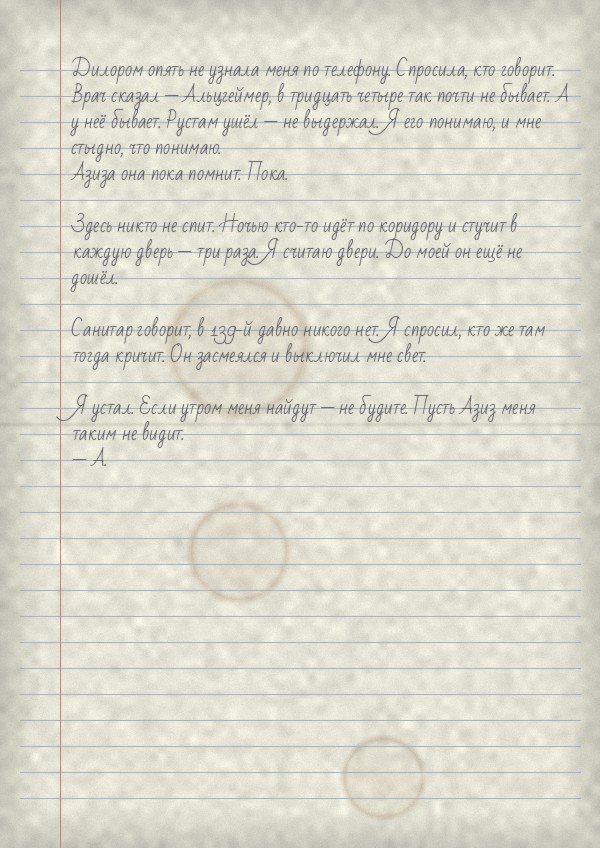
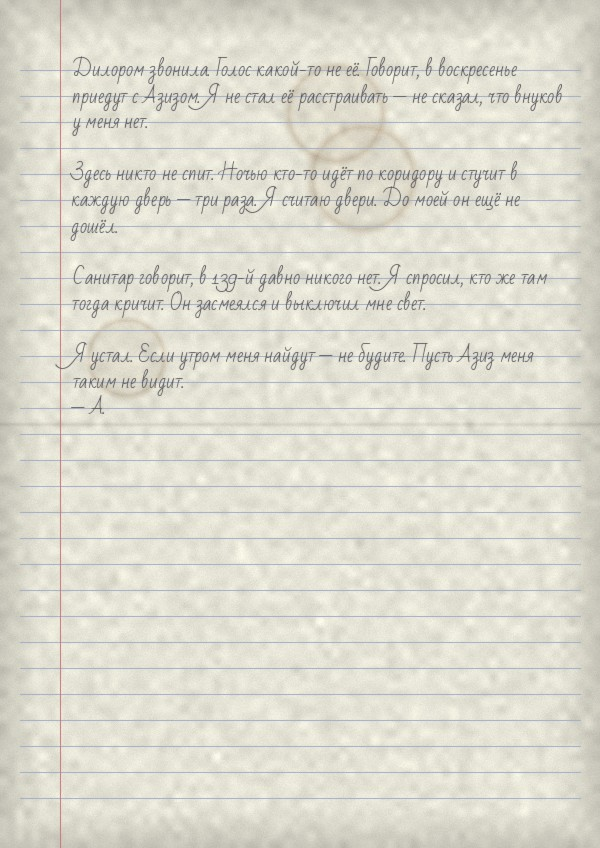
Story: no Alzheimer; three silent dream contradictions in grandpa's papers
The medical extract is now a telegram from Dilorom (dated 1980, 'Aziz is already running about'),
the referral is dated 1975 and lists grandson Aziz in a wheelchair, and grandpa's pencil note says he
has no grandchildren. Aziz no longer comments on things that do not add up (empty floor, the floor
coming back, mom vanishing).

Claude-Session: https://claude.ai/code/session_01RAJMRmio3YpQbQiqMDM3tq

diff --git a/tools/godot_assets/make_note_textures.py b/tools/godot_assets/make_note_textures.py
@@ -1,5 +1,5 @@
 #!/usr/bin/env python3
-"""Текстуры бумаг в палате деда (story/notes/): выписка на машинке в картонной папке, бланк направления
+"""Текстуры бумаг в палате деда (story/notes/): телеграмма в картонной папке, бланк направления
 и записка карандашом на тетрадном листе. На бумаге — тот же текст, что в игре (story/director.gd, NOTES):
 его можно прочитать, если подъехать близко. Бумага старая: желтизна, пятна, сгиб.
 Запуск: python3 make_note_textures.py <папка the_last_shake/story/notes>"""
@@ -15,22 +15,20 @@ rng = np.random.default_rng(1975)
 FONTS = "/usr/share/fonts/truetype/dejavu/"
 W, H = 600, 848            # А4
 
-MOM = ("Больная: Дилором Анваровна К., 34 года.\n"
-       "Диагноз: болезнь Альцгеймера, ранняя форма.\n\n"
-       "Анамнез: в 1972 г. муж (Рустам) ушёл из семьи. После этого — бессонница, тяжёлый стресс. "
-       "Через год появились провалы в памяти: забывает слова и дорогу домой, путает годы, не узнаёт соседей. "
-       "Со слов отца, однажды не узнала его самого.\n\n"
-       "Когда её поправляют — вспышки гнева, агрессия.\n\n"
-       "В таком возрасте болезнь встречается редко. Прогноз неблагоприятный.\n"
-       "Рекомендовано: наблюдение невропатолога. Одну не оставлять.")
-FORM = [("Ф. И. О.", "Каримов Анвар Каримович"), ("Возраст", "74 года"),
+# Телеграмма от Дилором деду. Во сне всё сходится и не сходится одновременно — Азиз этого не замечает:
+# в телеграмме 1980 год, а в направлении 1975-й; «Азиз уже бегает» — а он в коляске; в записке дед пишет, что
+# внуков у него нет, — а в направлении записан внук.
+MOM = ("ТАШКЕНТ 14/XI 1980 14 40\n\n"
+       "САНАТОРИЙ ОРОМГОХ ПАЛАТА 204 КАРИМОВУ А К\n\n"
+       "ПАПА ПРИЕДЕМ ВОСКРЕСЕНЬЕ ВДВОЁМ АЗИЗОМ ТЧК "
+       "АЗИЗ УЖЕ БЕГАЕТ ВО ДВОРЕ С РЕБЯТАМИ ВРАЧ ГОВОРИТ ЧУДО ТЧК "
+       "НЕ ВОЛНУЙСЯ ЖДИ ТЧК\n\nДИЛОРОМ")
+FORM = [("Дата", "10 ноября 1975 г."), ("Ф. И. О.", "Каримов Анвар Каримович"), ("Возраст", "74 года"),
         ("Диагноз", "стенокардия; невроз после смерти жены"), ("", "бессонница, отказывается от еды"),
         ("Санаторий", "«Оромгох», 2 этаж, палата 204"), ("Срок", "45 дней"),
         ("Родные", "дочь Дилором; внук Азиз, 16 лет (коляска)"), ("Отметка", "острые предметы из палаты убрать")]
-PENCIL = ("Дилором опять не узнала меня по телефону. Спросила, кто говорит. Врач сказал — Альцгеймер, "
-          "в тридцать четыре так почти не бывает. А у неё бывает. Рустам ушёл — не выдержал. "
-          "Я его понимаю, и мне стыдно, что понимаю.\n"
-          "Азиза она пока помнит. Пока.\n\n"
+PENCIL = ("Дилором звонила. Голос какой-то не её. Говорит, в воскресенье приедут с Азизом. "
+          "Я не стал её расстраивать — не сказал, что внуков у меня нет.\n\n"
           "Здесь никто не спит. Ночью кто-то идёт по коридору и стучит в каждую дверь — три раза. "
           "Я считаю двери. До моей он ещё не дошёл.\n\n"
           "Санитар говорит, в 139-й давно никого нет. Я спросил, кто же там тогда кричит. "
@@ -98,17 +96,28 @@ serif_b = ImageFont.truetype(FONTS + "DejaVuSerif-Bold.ttf", 17)
 # рукописный шрифт с кириллицей: Bad Script (Google Fonts, лицензия OFL) — лежит рядом, в fonts/
 hand = ImageFont.truetype(os.path.join(os.path.dirname(os.path.abspath(__file__)), "fonts", "BadScript-Regular.ttf"), 19)
 
-# --- выписка (пишущая машинка, фиолетовая лента, печать)
-img = paper(W, H)
+# --- телеграмма: бланк с шапкой, текст на наклеенных полосках телеграфной ленты, штамп отделения связи
+img = paper(W, H, base=(214, 205, 178))
 d = ImageDraw.Draw(img)
-d.text((W // 2 - 140, 40), "ВЫПИСКА ИЗ ИСТОРИИ БОЛЕЗНИ", font=mono_b, fill=(70, 50, 90))
-d.text((W // 2 - 55, 64), "№ 1184 / 74", font=mono, fill=(70, 50, 90))
-text_block(img, MOM, mono, 40, 110, W - 80, (75, 55, 100), 22, 0.6)
+d.text((40, 36), "МИНИСТЕРСТВО СВЯЗИ СССР", font=serif, fill=(70, 50, 40))
+d.text((W // 2 - 95, 66), "ТЕЛЕГРАММА", font=ImageFont.truetype(FONTS + "DejaVuSerif-Bold.ttf", 30), fill=(120, 40, 30))
+d.line([(40, 112), (W - 40, 112)], fill=(120, 60, 50), width=2)
+y = 140
+for para in MOM.split("\n"):
+    for ln in wrap(d, para, mono_b, W - 110) if para else [""]:
+        if ln:
+            tw = d.textlength(ln, font=mono_b)
+            strip = Image.new("RGB", (int(tw) + 16, 26), (236, 232, 214))
+            sdr = ImageDraw.Draw(strip)
+            sdr.text((8, 3), ln, font=mono_b, fill=(40, 40, 45))
+            img.paste(strip.rotate(rng.uniform(-0.6, 0.6), expand=False, fillcolor=(214, 205, 178)), (45, y))
+        y += 34
 st = Image.new("RGBA", (150, 150), (0, 0, 0, 0))
 sd = ImageDraw.Draw(st)
 sd.ellipse((5, 5, 145, 145), outline=(60, 70, 150, 170), width=4)
 sd.ellipse((25, 25, 125, 125), outline=(60, 70, 150, 150), width=2)
-sd.text((44, 64), "ТашМИ", font=mono_b, fill=(60, 70, 150, 170))
+sd.text((32, 58), "ТАШКЕНТ", font=mono_b, fill=(60, 70, 150, 170))
+sd.text((40, 80), "14.11.80", font=mono, fill=(60, 70, 150, 170))
 img.paste(st.rotate(18), (W - 210, H - 230), st.rotate(18))
 save(img, "note_typed.jpg")
 
